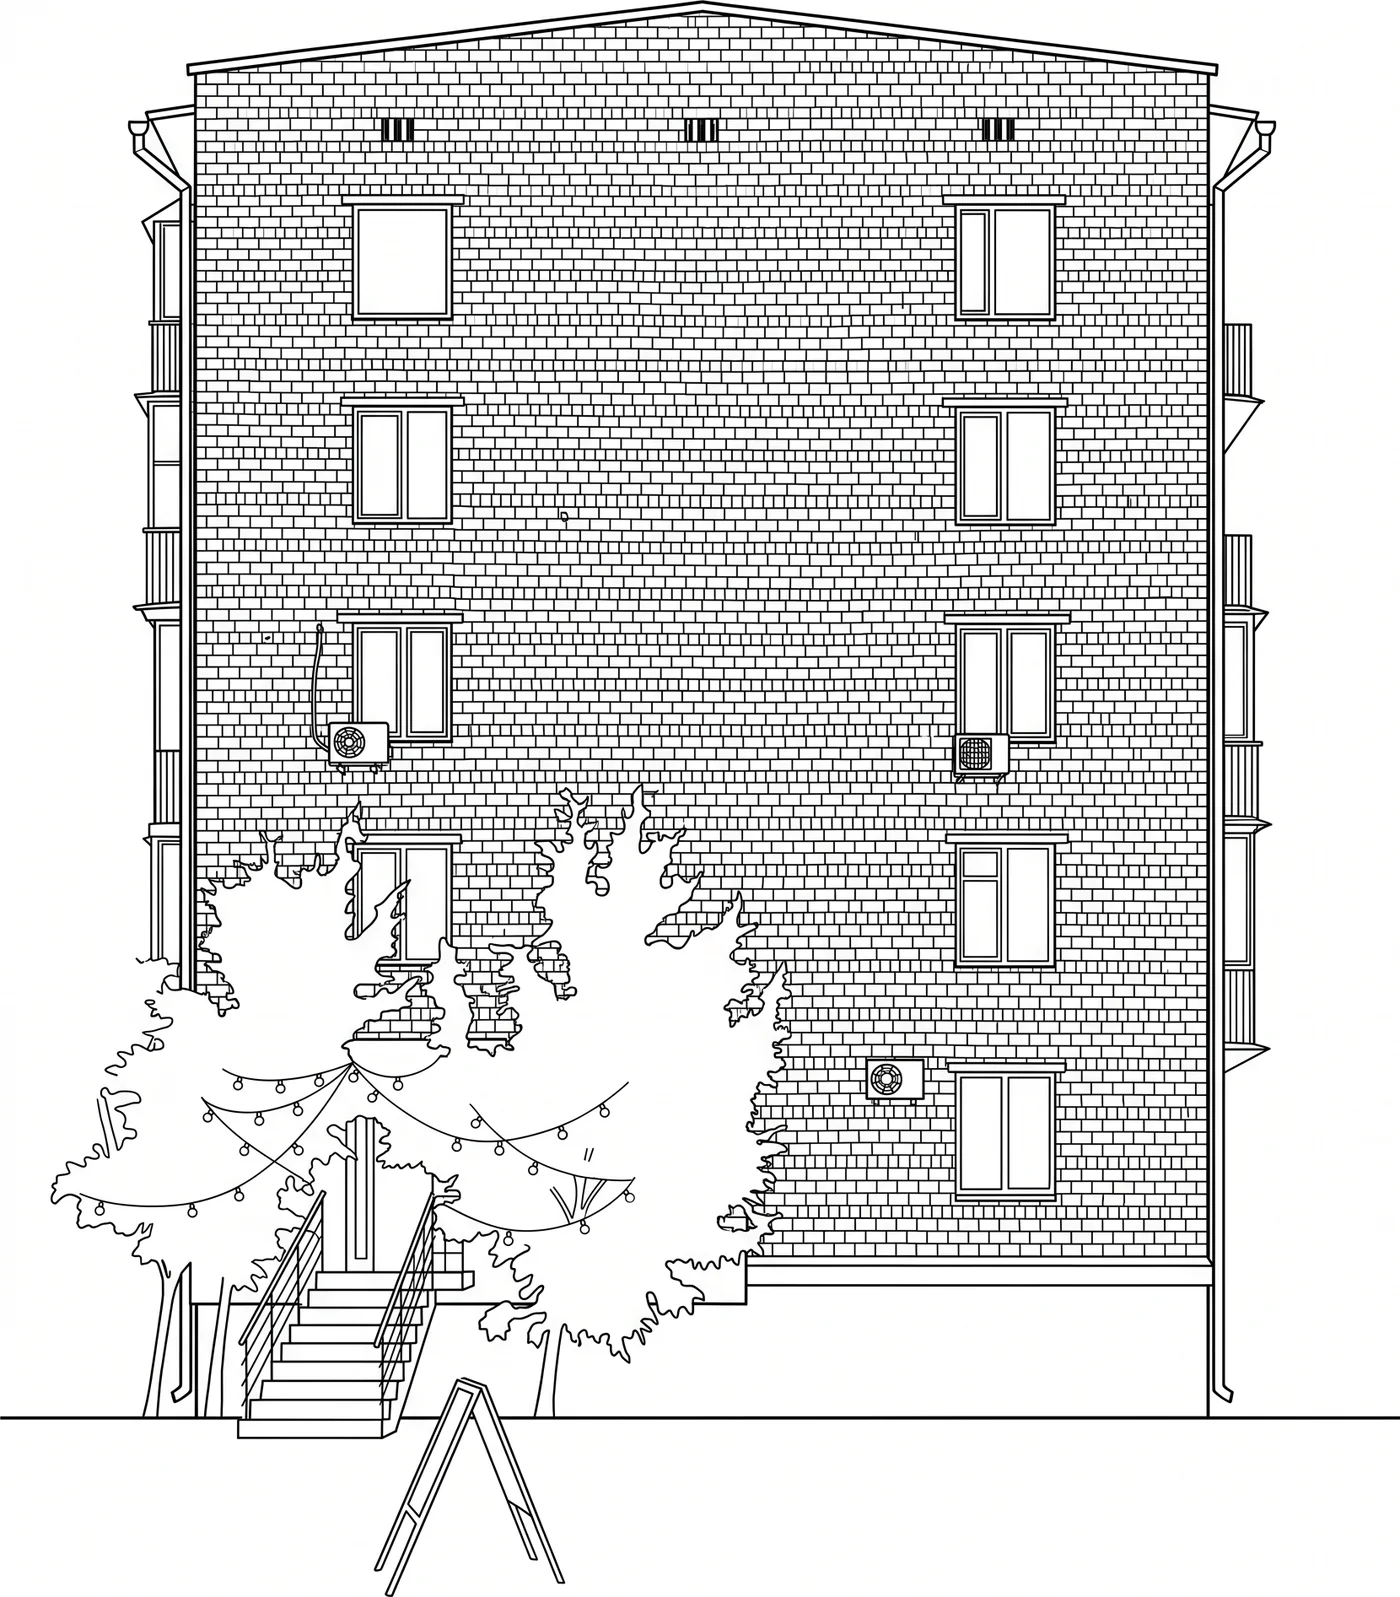
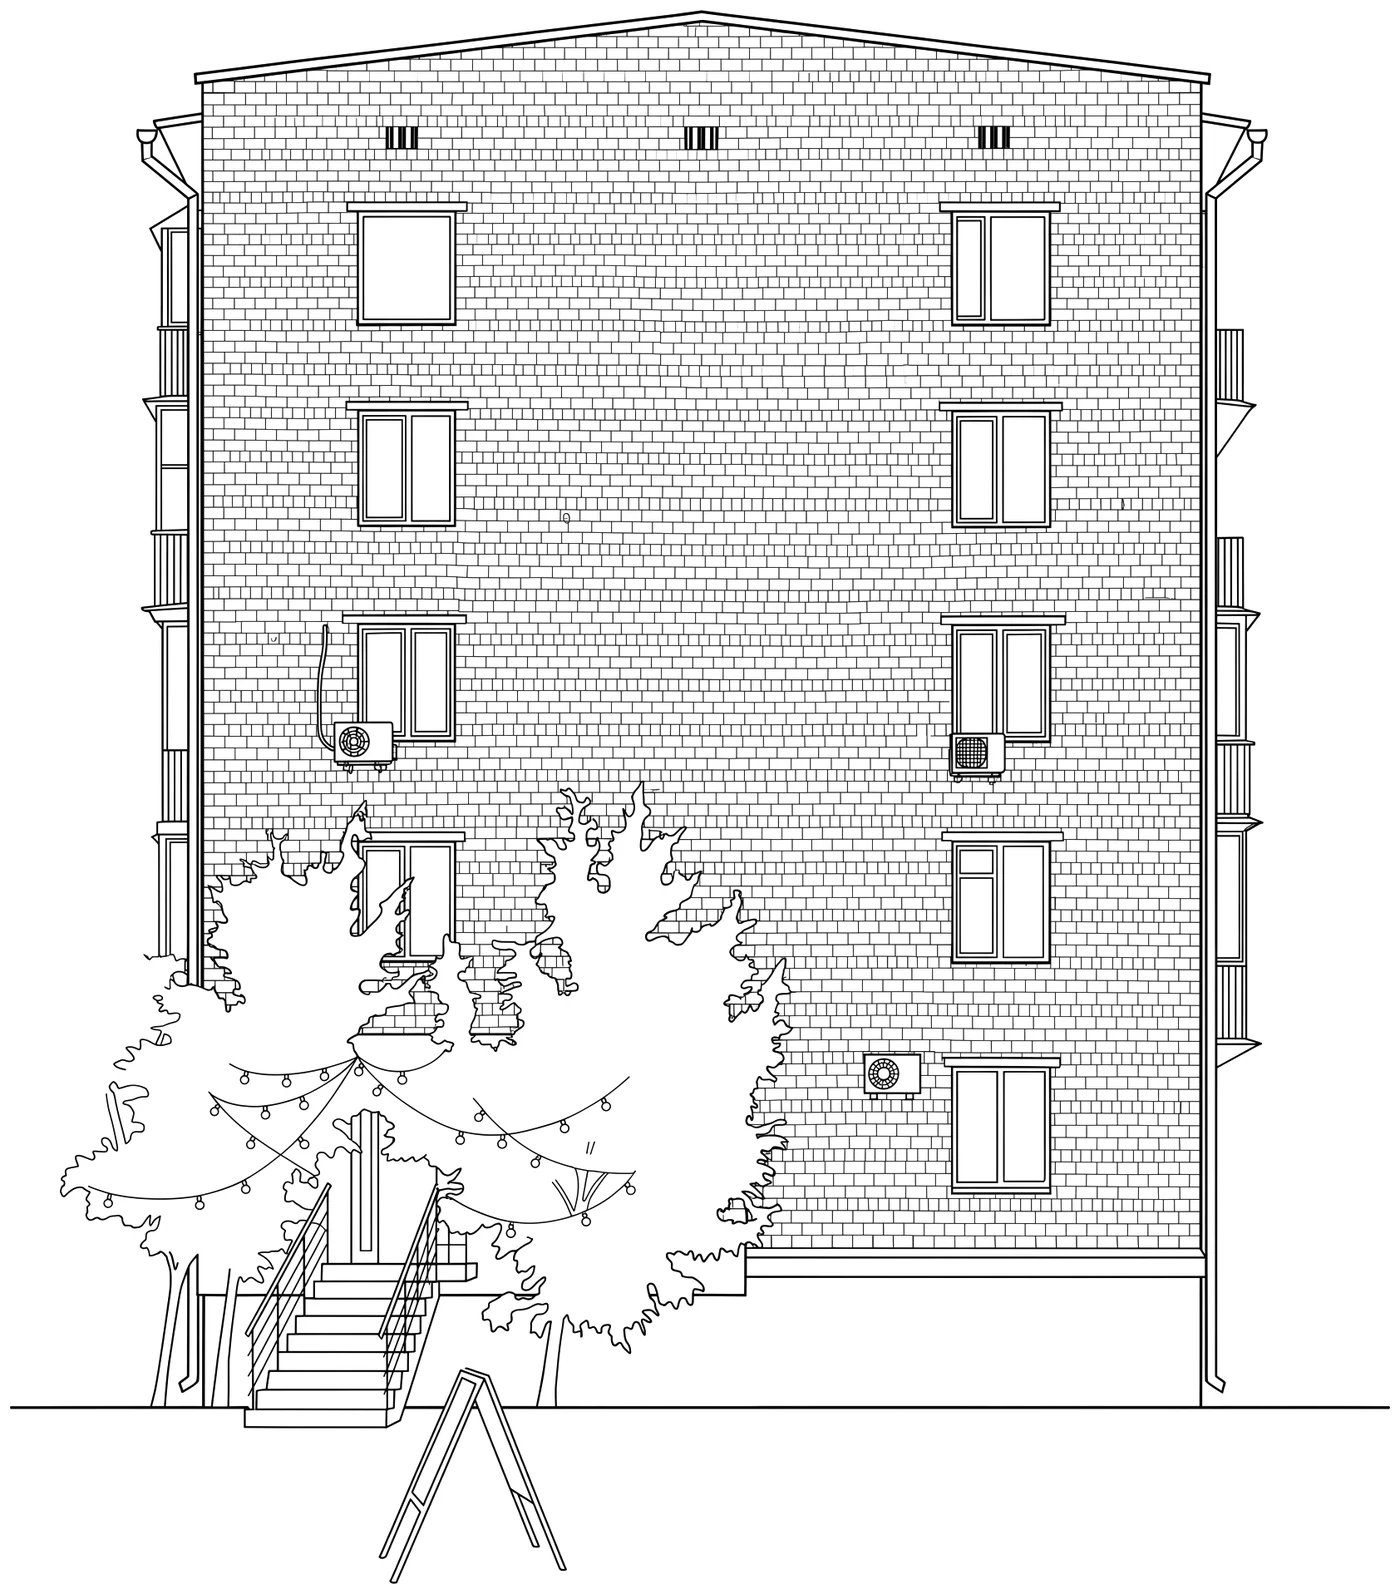
Новые чертежи: фасад (05 Чертёж фасада/4.png) и пицца на банках (пицца.png, белая линия на тёмном)

diff --git a/index.html b/index.html
@@ -856,7 +856,7 @@
   <!-- О НАС -->
   <section id="about">
     <div class="ab-top">
-      <figure class="ab-house"><img src="img/facade.webp" width="1400" height="1597" alt="Чертёж фасада: дом, лестница ко входу, дерево с гирляндой"></figure>
+      <figure class="ab-house"><img src="img/facade.webp" width="1400" height="1594" alt="Чертёж фасада: дом, лестница ко входу, дерево с гирляндой"></figure>
     </div>
     <div class="ab-head">
       <p class="ab-addr" data-i18n="abAddr">Москва, переулок Маяковского 2,<br>со стороны Марксистской</p>
@@ -908,7 +908,7 @@
       </div>
     </div>
     <div class="mhead">
-      <img class="mh-pizza" src="img/doodles/pizza-banki.svg" width="1465" height="736" alt="Рисунок: пицца на банках томатного соуса">
+      <img class="mh-pizza" src="img/doodles/pizza-banki.webp" width="1600" height="810" alt="Рисунок: пицца на банках томатного соуса">
       <img class="mh-oil" src="img/doodles/maslo.svg" width="117" height="68" alt="" aria-hidden="true">
       <img class="mh-plate" src="img/doodles/tarelka.svg" width="139" height="33" alt="" aria-hidden="true">
       <h2 class="mh-ttl" data-i18n="menu1"><span class="m1"><span>Мы меняем <a class="mlink" href="#menu" role="button" aria-controls="sheet">меню</a></span><img class="ii ii-oil" src="img/doodles/maslo.svg" width="117" height="68" alt=""></span><span class="mr"><img class="ii ii-plate" src="img/doodles/tarelka.svg" width="139" height="33" alt="">каждую неделю</span></h2>
